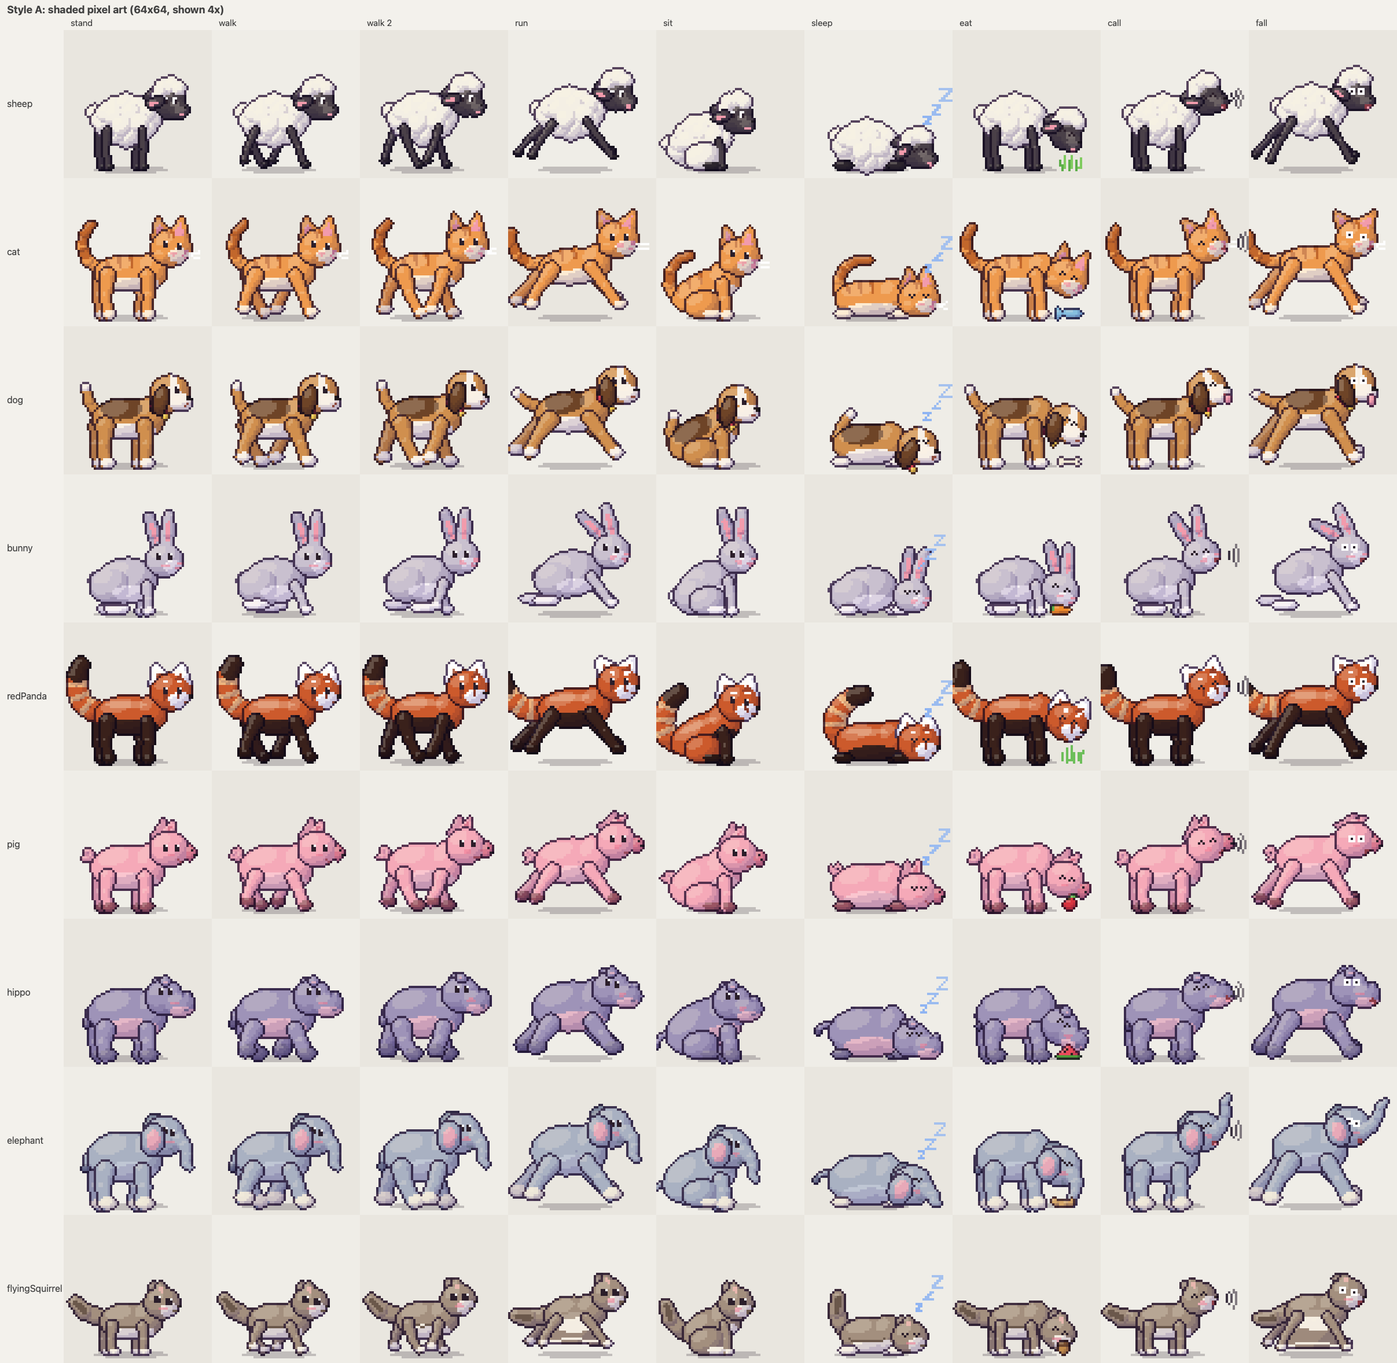
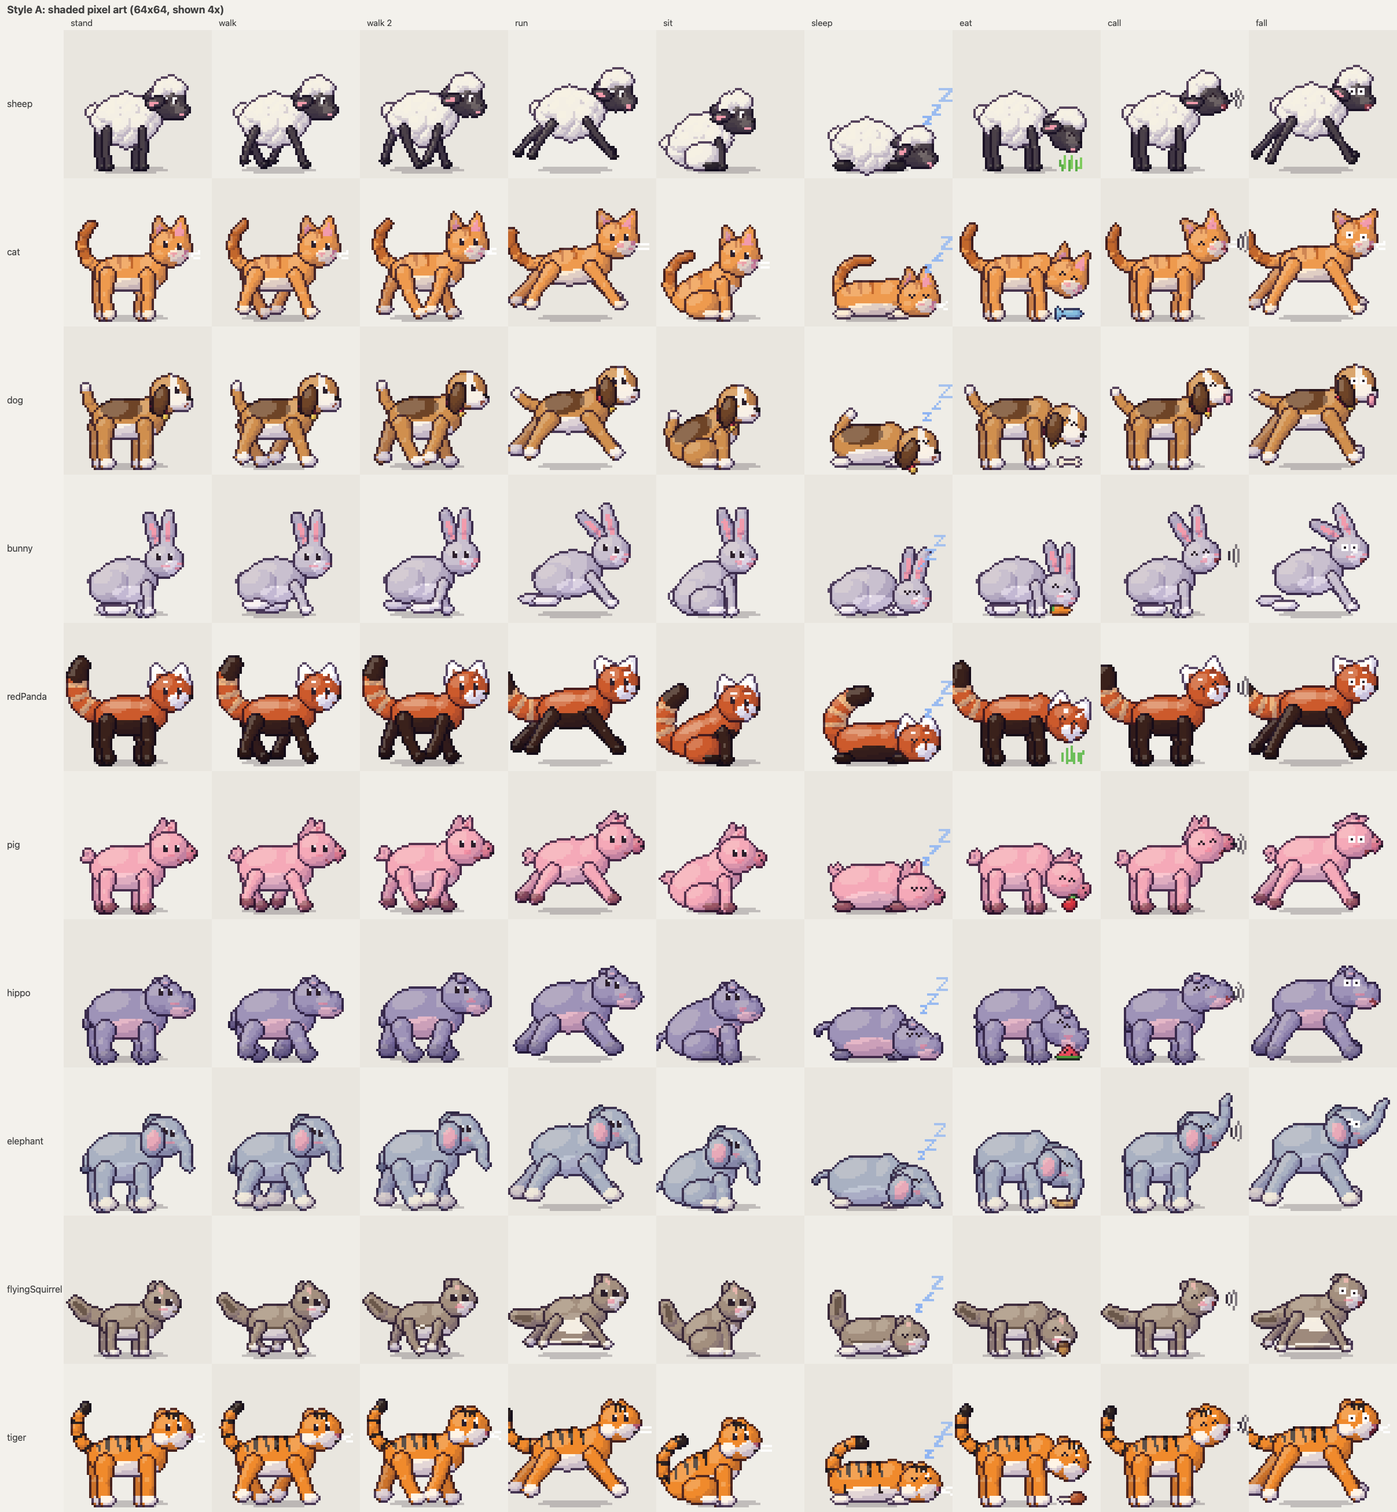
Add a tiger that now and then eats another pet

diff --git a/Sources/SheepCore/RigAnimals.swift b/Sources/SheepCore/RigAnimals.swift
@@ -67,6 +67,10 @@ private func spec(_ s: Animal) -> Spec {
         return Spec(bodyC: RigPoint(x: 28, y: 46), bodyR: (12, 7.5), hipX: 21, shoulderX: 34, legTop: 50, legW: (1.7, 1.4),
                     headC: RigPoint(x: 42.5, y: 38), headR: (7.2, 6.6),
                     fur: RGB(0xA38F7E), dark: RGB(0x6B584B), belly: RGB(0xF4EDE2), leg: RGB(0xA38F7E), paw: RGB(0xF4EDE2))
+    case .tiger:
+        return Spec(bodyC: RigPoint(x: 27, y: 40), bodyR: (16, 8.5), hipX: 18, shoulderX: 36, legTop: 45, legW: (2.8, 2.4),
+                    headC: RigPoint(x: 47, y: 29), headR: (8.6, 7.8),
+                    fur: RGB(0xF08A2C), dark: RGB(0x2E2220), belly: RGB(0xFFF4E6), leg: RGB(0xF08A2C), paw: RGB(0xFFF4E6))
     }
 }
 
@@ -270,6 +274,16 @@ private struct Builder {
                 spec.belly, G.body, decal: true)
         }
         switch species {
+        case .tiger:
+            for (i, x) in [14.0, 18.5, 23.0, 27.5, 32.0].enumerated() {
+                let top = body(RigPoint(x: x, y: spec.bodyC.y - spec.bodyR.y + 0.2))
+                let lean = i % 2 == 0 ? 1.4 : 0.6
+                add(.capsule(a: top, b: top + RigPoint(x: lean, y: 6.0), ra: 1.0, rb: 0.45), spec.dark, G.body, decal: true)
+            }
+            for x in [18.0, 33.0] {
+                let low = body(RigPoint(x: x, y: spec.bodyC.y + spec.bodyR.y * 0.55))
+                add(.capsule(a: low, b: low + RigPoint(x: -0.8, y: -3.2), ra: 0.8, rb: 0.4), spec.dark, G.body, decal: true)
+            }
         case .cat:
             for (i, x) in [18.0, 23.5, 29.0].enumerated() {
                 let top = body(RigPoint(x: x, y: spec.bodyC.y - spec.bodyR.y + 0.3))
@@ -310,15 +324,21 @@ private struct Builder {
             add(.ellipse(c: (base + RigPoint(x: -1.5, y: -0.5)).rotated(a, around: base), rx: 3.6, ry: 3.2, angle: 0), spec.fur, G.tail)
         case .bunny:
             add(.ellipse(c: base + RigPoint(x: -0.5, y: 3), rx: 4.2, ry: 4, angle: 0), RGB(0xFFFFFF), G.tail)
-        case .cat:
+        case .cat, .tiger:
             let pts = chain([RigPoint(x: 0, y: 0), RigPoint(x: -5, y: -3), RigPoint(x: -7.5, y: -9), RigPoint(x: -6.5, y: -15), RigPoint(x: -3.5, y: -18.5)])
             for (i, (u, v)) in zip(pts, pts.dropFirst()).enumerated() {
                 let r1 = 2.3 - Double(i) * 0.15, r2 = 2.3 - Double(i + 1) * 0.15
-                add(.capsule(a: u, b: v, ra: r1, rb: r2), i >= 3 ? spec.dark : spec.fur, G.tail)
-                if i == 1 || i == 2 {
+                add(.capsule(a: u, b: v, ra: r1, rb: r2), i >= 3 && species == .cat ? spec.dark : spec.fur, G.tail)
+                if species == .tiger {
+                    // Thin dark bands across the tail.
+                    let d = v - u, mid = u + d * 0.5
+                    let across = RigPoint(x: -d.y, y: d.x) * ((r1 + 0.6) / max(d.length, 1e-6))
+                    add(.capsule(a: mid + across, b: mid - across, ra: 0.7, rb: 0.7), spec.dark, G.tail, decal: true)
+                } else if i == 1 || i == 2 {
                     add(.capsule(a: u + (v - u) * 0.45, b: u + (v - u) * 0.6, ra: r1 + 0.3, rb: r1 + 0.3), spec.dark, G.tail, decal: true)
                 }
             }
+            if species == .tiger { add(.ellipse(c: pts[4], rx: 2.0, ry: 2.0, angle: 0), spec.dark, G.tail) }
         case .dog:
             let pts = chain([RigPoint(x: 0, y: 0), RigPoint(x: -3.5, y: -5), RigPoint(x: -5, y: -11)])
             add(.capsule(a: pts[0], b: pts[1], ra: 2.3, rb: 1.9), spec.fur, G.tail)
@@ -538,6 +558,34 @@ private struct Builder {
             add(.ellipse(c: head(7.0, 1.4), rx: 0.9, ry: 0.7, angle: 0), RGB(0x3A2A2A), G.head, decal: true)
             mouth(at: head(5.8, 3.6), color: spec.dark)
             blush(head(0.6, 2.6))
+        case .tiger:
+            // Round ears with dark backs, white cheeks and brows, stripes on the forehead and cheeks.
+            for (far, dx) in [(true, -4.4), (false, 0.6)] {
+                let c = head(dx, -6.6)
+                add(.ellipse(c: c, rx: 2.6, ry: 2.4, angle: ear), far ? spec.fur.shade(-0.2) : spec.fur, far ? G.farEar : G.head)
+                add(.ellipse(c: c + RigPoint(x: 0.2, y: 0.4), rx: 1.3, ry: 1.1, angle: ear), far ? spec.dark : spec.belly, far ? G.farEar : G.head, decal: true)
+            }
+            add(.ellipse(c: head(0, 0), rx: rx, ry: ry, angle: headAngle), spec.fur, G.head)
+            add(.ellipse(c: head(-4.8, 3.6), rx: 3.6, ry: 2.8, angle: 0.3), spec.belly, G.head) // cheek ruff
+            add(.ellipse(c: head(4.0, 3.6), rx: 4.8, ry: 3.4, angle: headAngle), spec.belly, G.head, decal: true)
+            for (dx, top) in [(-2.0, -7.4), (0.0, -7.6), (2.0, -7.2)] {
+                add(.capsule(a: head(dx, top), b: head(dx + 0.2, top + 2.6), ra: 0.7, rb: 0.4), spec.dark, G.head, decal: true)
+            }
+            add(.ellipse(c: head(3.0, -3.6), rx: 1.4, ry: 0.6, angle: -0.2), spec.belly, G.head, decal: true)
+            eyes(near: head(3.0, -1.6), far: head(-2.4, -1.8), sclera: false)
+            add(.triangle(head(6.6, 1.2), head(8.8, 1.2), head(7.7, 2.6), round: 0.3), RGB(0xD9707E), G.head, decal: true)
+            if pose.mouthOpen {
+                // A big toothy roar.
+                add(.ellipse(c: head(6.8, 5.2), rx: 2.2, ry: 1.9, angle: 0), RGB(0x7A2A34), G.head, decal: true)
+                add(.triangle(head(5.4, 3.8), head(6.4, 3.8), head(5.9, 5.0), round: 0.1), RGB(0xFFFFFF), G.head, decal: true)
+                add(.triangle(head(7.4, 3.8), head(8.4, 3.8), head(7.9, 5.0), round: 0.1), RGB(0xFFFFFF), G.head, decal: true)
+            } else {
+                mouth(at: head(7.4, 4.4), color: spec.dark)
+            }
+            for (dy, ang) in [(2.6, -0.15), (3.8, 0.12)] {
+                let s = head(9.0, dy)
+                add(.line([s, s + RigPoint(x: 4.5, y: ang * 4.5)], width: 0.45), RGB(0xFFFFFF, alpha: 0.9), G.fx, decal: true)
+            }
         }
     }
 
@@ -641,6 +689,11 @@ private struct Builder {
                 for (dx, dy) in [(-1.5, -1.8), (1.2, -1.6), (0, -3.0)] {
                     add(.pixel(x: Int((c.x + dx).rounded(.down)), y: Int((c.y + dy).rounded(.down))), RGB(0x2A1E20), G.fx, decal: true)
                 }
+            case .tiger:
+                // A drumstick: meaty end and a bone handle.
+                add(.capsule(a: RigPoint(x: x - 3.5, y: ground - 1.3), b: RigPoint(x: x + 0.5, y: ground - 1.3), ra: 0.6, rb: 0.6), RGB(0xF4EAD6), G.fx)
+                add(.ellipse(c: RigPoint(x: x - 4, y: ground - 1.3), rx: 1.0, ry: 1.0, angle: 0), RGB(0xF4EAD6), G.fx)
+                add(.ellipse(c: RigPoint(x: x + 2.4, y: ground - 2.0), rx: 3.0, ry: 2.2, angle: -0.2), RGB(0xB5562C), G.fx)
             case .flyingSquirrel:
                 let c = RigPoint(x: x + 1, y: ground - 2.2)
                 add(.ellipse(c: c, rx: 1.8, ry: 2.2, angle: 0), RGB(0xC08A4A), G.fx)

diff --git a/Sources/SheepCore/Pet.swift b/Sources/SheepCore/Pet.swift
@@ -17,11 +17,13 @@ public enum Behavior: String, CaseIterable, Codable, Sendable {
     case startled, chaseCursor, fetchTreat
     /// Peeking out from behind a window's side; napping on the menu bar.
     case peek, menuNap
+    /// A tiger chasing down another pet, then gulping it; the eaten pet is away for a while.
+    case hunt, devour, eaten
 
     /// Behaviors that happen while standing on something.
     public var isGrounded: Bool {
         switch self {
-        case .fall, .dragged, .parachute, .meteor, .jetpack, .countdown, .finale, .climb, .hang, .menuNap: return false
+        case .fall, .dragged, .parachute, .meteor, .jetpack, .countdown, .finale, .climb, .hang, .menuNap, .eaten: return false
         default: return true
         }
     }
@@ -29,7 +31,7 @@ public enum Behavior: String, CaseIterable, Codable, Sendable {
     /// Grounded behaviors that move the pet along its surface.
     public var isMoving: Bool {
         switch self {
-        case .walk, .run, .chase, .flee, .follow, .butterfly, .tumble, .chaseCursor, .fetchTreat: return true
+        case .walk, .run, .chase, .flee, .follow, .butterfly, .tumble, .chaseCursor, .fetchTreat, .hunt: return true
         default: return false
         }
     }
@@ -37,7 +39,7 @@ public enum Behavior: String, CaseIterable, Codable, Sendable {
     /// Behaviors that need another pet.
     public var isSocial: Bool {
         switch self {
-        case .nuzzle, .chase, .flee, .follow, .playFight, .ride: return true
+        case .nuzzle, .chase, .flee, .follow, .playFight, .ride, .hunt: return true
         default: return false
         }
     }
@@ -224,6 +226,8 @@ public struct Pet: Sendable {
             stepClimb(dt: dt, world: world, rng: &rng)
         case .hang:
             stepHang(world: world, rng: &rng)
+        case .eaten:
+            if timeInBehavior >= behaviorDuration { enter(in: world, style: .random, rng: &rng) }
         case .menuNap:
             let stillThere = world.menuBars.contains { x >= $0.minX && x <= $0.maxX && abs($0.minY - 6 - y) < 2 }
             if !stillThere || timeInBehavior >= behaviorDuration {
@@ -305,6 +309,16 @@ public struct Pet: Sendable {
         if timeInBehavior >= behaviorDuration || y > top + 20 { exit = .finale }
     }
 
+    /// Gulped by a tiger: gone from view until it arrives again in a few seconds.
+    mutating func beEaten<R: RandomNumberGenerator>(rng: inout R) {
+        partnerID = nil
+        ridingID = nil
+        climb = nil
+        vx = 0
+        vy = 0
+        setBehavior(.eaten, duration: Double.random(in: Self.durationRange(for: .eaten), using: &rng))
+    }
+
     // MARK: - Dragging
 
     public mutating func beginDrag() {
@@ -345,6 +359,7 @@ public struct Pet: Sendable {
         case .walk: base = config.walkSpeed
         case .run, .flee: base = config.runSpeed
         case .chase: base = config.runSpeed * 1.12
+        case .hunt: base = config.runSpeed * 1.3
         case .follow: base = config.walkSpeed * pace
         case .chaseCursor: base = config.runSpeed * 1.05 * pace
         case .fetchTreat: base = config.runSpeed * pace
@@ -682,6 +697,8 @@ public struct Pet: Sendable {
         .chaseCursor: [(.call, 50), (.sit, 50)],
         .fetchTreat: [(.stand, 100)],
         .peek: [(.walk, 100)],
+        .hunt: [(.call, 60), (.stand, 40)],
+        .devour: [(.sit, 60), (.stand, 40)],
     ]
 
     /// Extra solo options mixed into the table above (kept separate so the original weights
@@ -729,6 +746,9 @@ public struct Pet: Sendable {
         case .peek: return 3...6
         case .menuNap: return 8...20
         case .hang: return 2...5
+        case .hunt: return 6...9
+        case .devour: return 2.4...2.4
+        case .eaten: return 8...14
         case .fall, .dragged, .parachute, .meteor, .jetpack, .countdown, .finale, .climb: return .infinity ... .infinity
         }
     }

diff --git a/Sources/SheepCore/Synth.swift b/Sources/SheepCore/Synth.swift
@@ -2,7 +2,7 @@ import Foundation
 
 /// Short original sound effects, synthesized from oscillators and noise (no recordings).
 public enum SoundEffect: String, CaseIterable, Sendable {
-    case bleat, meow, bark, squeak, chirp, thud, poof, boom, sizzle, pop, beam, oink, honk, trumpet, chitter
+    case bleat, meow, bark, squeak, chirp, thud, poof, boom, sizzle, pop, beam, oink, honk, trumpet, chitter, roar, chomp
 
     /// The call sound for an animal.
     public static func call(for animal: Animal) -> SoundEffect {
@@ -16,6 +16,7 @@ public enum SoundEffect: String, CaseIterable, Sendable {
         case .hippo: return .honk
         case .elephant: return .trumpet
         case .flyingSquirrel: return .chitter
+        case .tiger: return .roar
         }
     }
 
@@ -106,6 +107,29 @@ public enum Synth {
                     (2600 - Double(k % 2) * 400 - 500 * (t / d), envelope(t, d, attack: 0.003, release: 0.015))
                 }
                 out += Array(repeating: 0, count: Int(0.025 * sampleRate))
+            }
+        case .roar:
+            // A rough growl that swells into a roar and trails off.
+            var lp = 0.0
+            out = tone(seconds: 1.1, harmonics: [1, 0.9, 0.75, 0.6, 0.45, 0.3]) { t, d in
+                let x = t / d
+                return (110 + 70 * sin(min(x * 1.6, 1) * .pi) + sin(t * 2 * .pi * 23) * 6, envelope(t, d, attack: 0.15, release: 0.4))
+            }
+            out = out.enumerated().map { i, s in
+                lp += (white() - lp) * 0.2
+                return s * 0.7 + lp * 0.9 * envelope(Double(i) / sampleRate, 1.1, attack: 0.15, release: 0.4)
+            }
+        case .chomp:
+            // Three quick crunchy bites.
+            var lp = 0.0
+            out = []
+            for _ in 0..<3 {
+                out += (0..<Int(0.09 * sampleRate)).map { i in
+                    let t = Double(i) / sampleRate
+                    lp += (white() - lp) * 0.35
+                    return (lp + sin(2 * .pi * 180 * t) * 0.4) * envelope(t, 0.09, attack: 0.003, release: 0.06)
+                }
+                out += Array(repeating: 0, count: Int(0.08 * sampleRate))
             }
         case .thud:
             var lp = 0.0

diff --git a/Sources/SheepCore/Social.swift b/Sources/SheepCore/Social.swift
@@ -90,6 +90,15 @@ public enum Social {
                 }
             case .flee:
                 if pet.timeInBehavior > 0.3 { pet.facing = towards.flipped }
+            case .hunt:
+                pet.facing = towards
+                if d < hw * 1.1 {
+                    // Caught! Gulp.
+                    let j = pets.firstIndex { $0.id == partner.id }!
+                    pets[j].beEaten(rng: &rng)
+                    pet.partnerID = nil
+                    pet.setBehavior(.devour, duration: Pet.durationRange(for: .devour).lowerBound)
+                }
             case .follow:
                 guard partner.behavior == .walk || partner.behavior == .follow, d < hw * 12 else {
                     pet.partnerID = nil
@@ -129,6 +138,14 @@ public enum Social {
                         pets[i].facing = pets[i].facing.flipped
                         pets[j].facing = pets[j].facing.flipped
                     }
+                    continue
+                }
+                // Now and then a tiger goes after a pet that isn't another tiger.
+                if a.animal.hunts, !b.animal.hunts, [.stand, .walk, .sit].contains(a.behavior), b.partnerID == nil,
+                   b.behavior.isGrounded, d < 600, a.config.enabledBehaviors.contains(.hunt),
+                   Double.random(in: 0..<1, using: &rng) < dt / 60 {
+                    start(&pets[i], .hunt, partner: b.id, rng: &rng)
+                    start(&pets[j], .flee, partner: a.id, rng: &rng)
                     continue
                 }
                 // A pet that starts running may go after a nearby friend.

diff --git a/Tests/SheepCoreTests/BehaviorTests.swift b/Tests/SheepCoreTests/BehaviorTests.swift
@@ -196,6 +196,31 @@ private func pet(_ x: Double, _ behavior: Behavior = .walk, facing: Facing = .ri
         #expect(pets[0].facing == .right && pets[1].facing == .left)
     }
 
+    @Test func tigerHuntsEatsAndThePetComesBack() {
+        var tiger = pet(400, .stand, id: 1)
+        tiger.animal = .tiger
+        var pets = [tiger, pet(700, .stand, id: 2)]
+        simulate(&pets, in: world, seconds: 600) { $0[1].behavior == .eaten }
+        #expect(pets[1].behavior == .eaten)
+        #expect(pets[0].behavior == .devour)
+        simulate(&pets, in: world, seconds: 20) { $0[1].behavior != .eaten }
+        #expect(pets[1].behavior != .eaten)
+    }
+
+    @Test func tigersDontHuntTigersOrWhenDisabled() {
+        var config = PetConfig()
+        config.enabledBehaviors.remove(.hunt)
+        var tiger = pet(400, .stand, id: 1), other = pet(700, .stand, id: 3)
+        tiger.animal = .tiger
+        other.animal = .tiger
+        var noHunting = Pet(x: 900, y: 0, animal: .tiger, behavior: .stand, duration: 1000, config: config)
+        noHunting.id = 4
+        var pets = [tiger, other, noHunting]
+        var seen = Set<Behavior>()
+        simulate(&pets, in: world, seconds: 300) { pets in pets.forEach { seen.insert($0.behavior) }; return false }
+        #expect(!seen.contains(.hunt) && !seen.contains(.eaten))
+    }
+
     @Test func disabledSocialBehaviorsNeverHappen() {
         var settings = PetSettings()
         for b in [Behavior.nuzzle, .chase, .follow, .playFight, .ride, .yawn] { settings.setEnabled(b, false) }

diff --git a/Sources/SheepCore/Animal.swift b/Sources/SheepCore/Animal.swift
@@ -1,6 +1,6 @@
 /// The kinds of pet. Every animal supports the same behaviors, with its own flavor.
 public enum Animal: String, CaseIterable, Codable, Sendable {
-    case sheep, cat, dog, bunny, redPanda, pig, hippo, elephant, flyingSquirrel
+    case sheep, cat, dog, bunny, redPanda, pig, hippo, elephant, flyingSquirrel, tiger
 
     public var title: String {
         switch self {
@@ -13,6 +13,7 @@ public enum Animal: String, CaseIterable, Codable, Sendable {
         case .hippo: return "Baby Hippo"
         case .elephant: return "Elephant"
         case .flyingSquirrel: return "Flying Squirrel"
+        case .tiger: return "Tiger"
         }
     }
 
@@ -28,6 +29,7 @@ public enum Animal: String, CaseIterable, Codable, Sendable {
         case .hippo: return "honk"
         case .elephant: return "trumpet"
         case .flyingSquirrel: return "chitter"
+        case .tiger: return "roar"
         }
     }
 
@@ -43,8 +45,12 @@ public enum Animal: String, CaseIterable, Codable, Sendable {
         case .hippo: return "watermelon"
         case .elephant: return "peanuts"
         case .flyingSquirrel: return "an acorn"
+        case .tiger: return "a drumstick"
         }
     }
+
+    /// Tigers now and then hunt down another pet and eat it (it comes back a little later).
+    public var hunts: Bool { self == .tiger }
 
     /// Bunnies hop: they only move forward while in the air.
     public var hops: Bool { self == .bunny }

diff --git a/Sources/SheepCore/PetArt.swift b/Sources/SheepCore/PetArt.swift
@@ -207,6 +207,9 @@ public enum PetArt {
         case .peek: return 2
         case .menuNap: return 1.5
         case .chaseCursor, .fetchTreat: return 14
+        case .hunt: return 14
+        case .devour: return 5
+        case .eaten: return 1
         }
     }
 
@@ -253,6 +256,9 @@ public enum PetArt {
         case .peek: return (0..<4).map { i in make { $0.eyes = i == 2 ? .wide : .open; $0.earUp = i % 2 == 1; $0.headDY = -1 } }
         case .menuNap: return sleepFrames.map { var p = $0; p.shadow = false; return p }
         case .ride: return sitFrames.map { var p = $0; p.shadow = false; p.eyes = $0.earUp ? .happy : .open; return p }
+        case .hunt: return runFrames.map { var p = $0; p.mouthOpen = true; p.earUp = true; p.headDY += 1; return p }
+        case .devour: return (0..<4).map { i in make { $0.mouthOpen = i % 2 == 0; $0.eyes = i == 3 ? .happy : .closed; $0.headDY = i % 2; $0.tailDY = -1 } }
+        case .eaten: return [Pose()] // not shown; the app hides the window meanwhile
         }
     }
 

diff --git a/Tests/SheepCoreTests/AnimalTests.swift b/Tests/SheepCoreTests/AnimalTests.swift
@@ -10,7 +10,7 @@ import Testing
                     let c = PetArt.render(pose, animal: animal)
                     #expect(!c.isBlank, "\(animal) \(behavior)")
                     // Something solid on the bottom row unless the pet is in the air.
-                    if pose.lift == 0 && pose.shadow && ![.run, .chase, .flee, .chaseCursor, .fetchTreat].contains(behavior) { // gallops have an airborne frame
+                    if pose.lift == 0 && pose.shadow && ![.run, .chase, .flee, .chaseCursor, .fetchTreat, .hunt].contains(behavior) { // gallops have an airborne frame
                         #expect((0..<c.width).contains { c.isSolid($0, PetArt.groundRow - 1) }, "\(animal) \(behavior)")
                     }
                 }

diff --git a/Sources/DesktopSheep/PetWindow.swift b/Sources/DesktopSheep/PetWindow.swift
@@ -38,6 +38,9 @@ final class PetController {
     var pose: Pose { sheep.pose }
 
     func render() {
+        // An eaten pet is away until it arrives again.
+        let away = sheep.behavior == .eaten
+        if away == window.isVisible { away ? window.orderOut(nil) : window.orderFrontRegardless() }
         let size = Sprites.shared.size
         let origin = sheep.spriteOrigin(width: size.width, height: size.height)
         window.setFrameOrigin(CGPoint(x: origin.x.rounded(), y: origin.y.rounded()))

diff --git a/Sources/DesktopSheep/AppDelegate.swift b/Sources/DesktopSheep/AppDelegate.swift
@@ -165,6 +165,8 @@ final class AppDelegate: NSObject, NSApplicationDelegate, NSMenuDelegate {
             case .impact, .tumble: sounds.play(.thud, now: now)
             case .startled: sounds.play(.pop, now: now)
             case .finale: sounds.play(.finale(pet.finaleStyle), now: now)
+            case .hunt: sounds.play(.roar, now: now)
+            case .devour: sounds.play(.chomp, now: now)
             default: break
             }
         }

diff --git a/Sources/DesktopSheep/SettingsWindow.swift b/Sources/DesktopSheep/SettingsWindow.swift
@@ -164,6 +164,7 @@ final class SettingsWindowController: NSObject, NSWindowDelegate {
         case .startled: return "Startle at fast mouse moves"
         case .peek: return "Peek out from behind windows"
         case .menuNap: return "Nap on the menu bar"
+        case .hunt: return "Tigers eat other pets (they come back)"
         default: return behavior.rawValue.capitalized
         }
     }

diff --git a/Sources/SheepCore/Settings.swift b/Sources/SheepCore/Settings.swift
@@ -30,7 +30,7 @@ public struct PetSettings: Codable, Equatable, Sendable {
         .walk, .run, .sit, .sleep, .eat, .call,
         .climb, .hang, .tumble, .dig, .butterfly, .yawn,
         .nuzzle, .chase, .follow, .playFight, .ride,
-        .chaseCursor, .startled, .peek, .menuNap,
+        .chaseCursor, .startled, .peek, .menuNap, .hunt,
     ]
 
     public var petCount = 1
